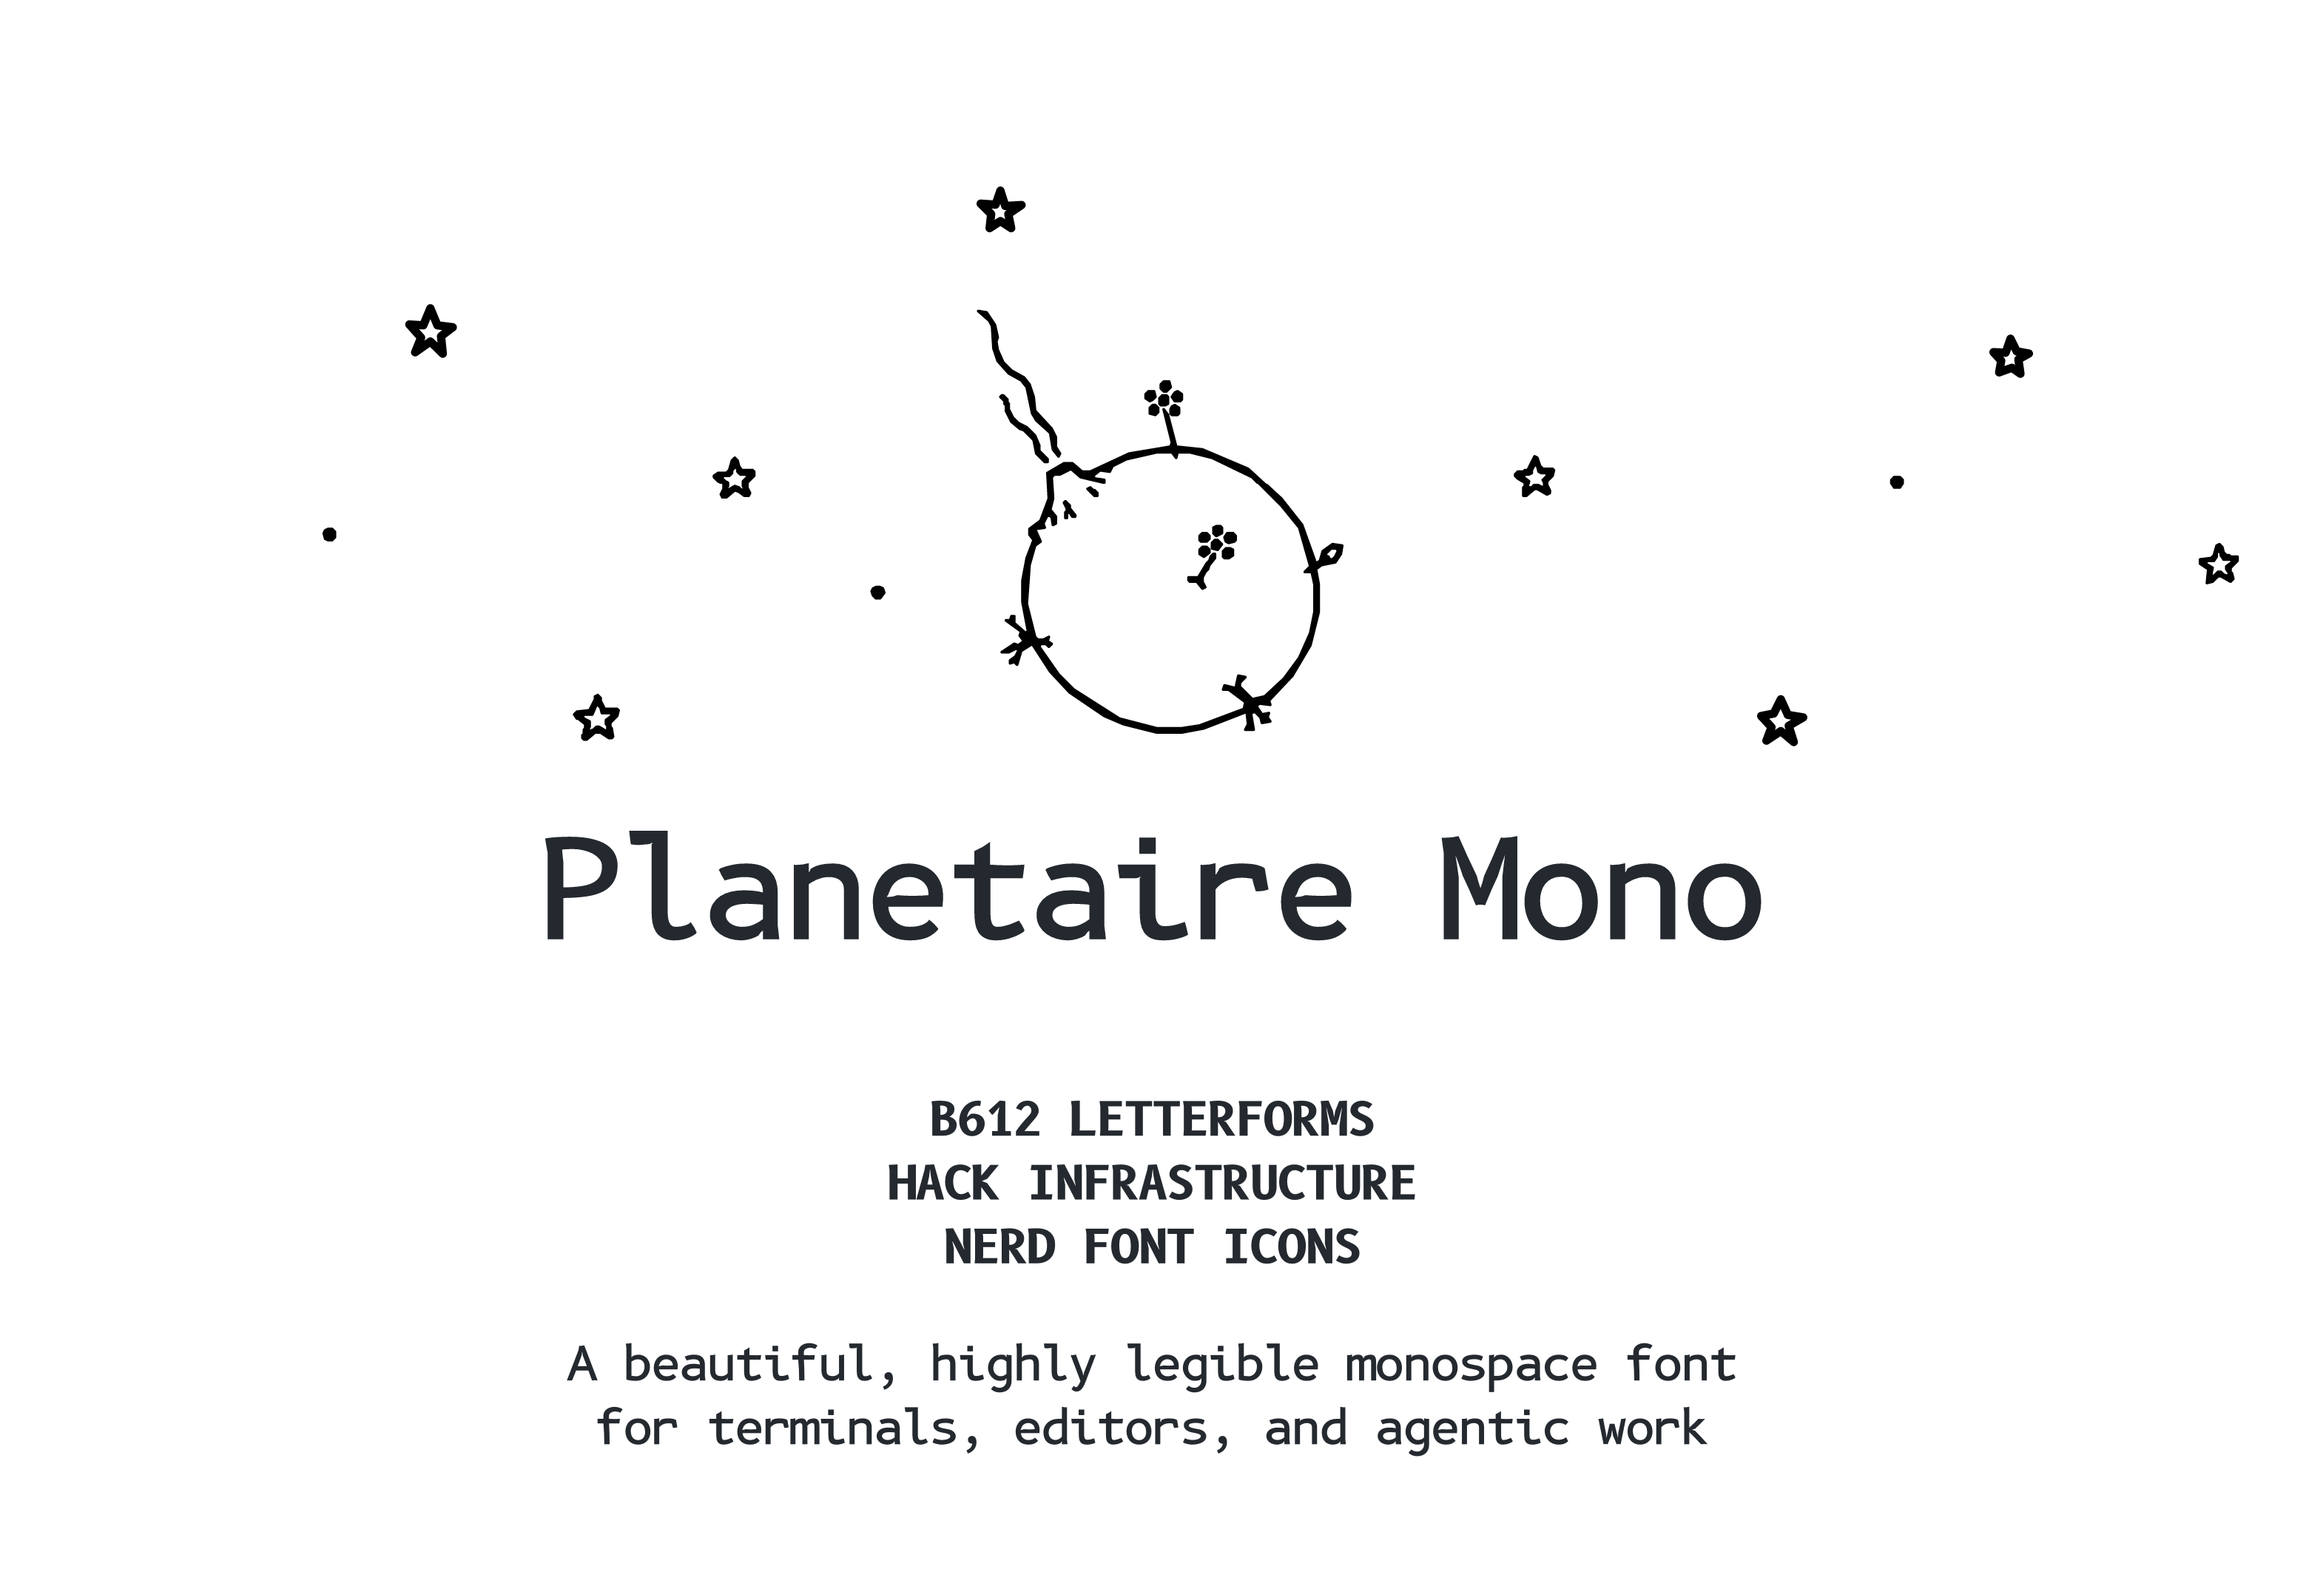
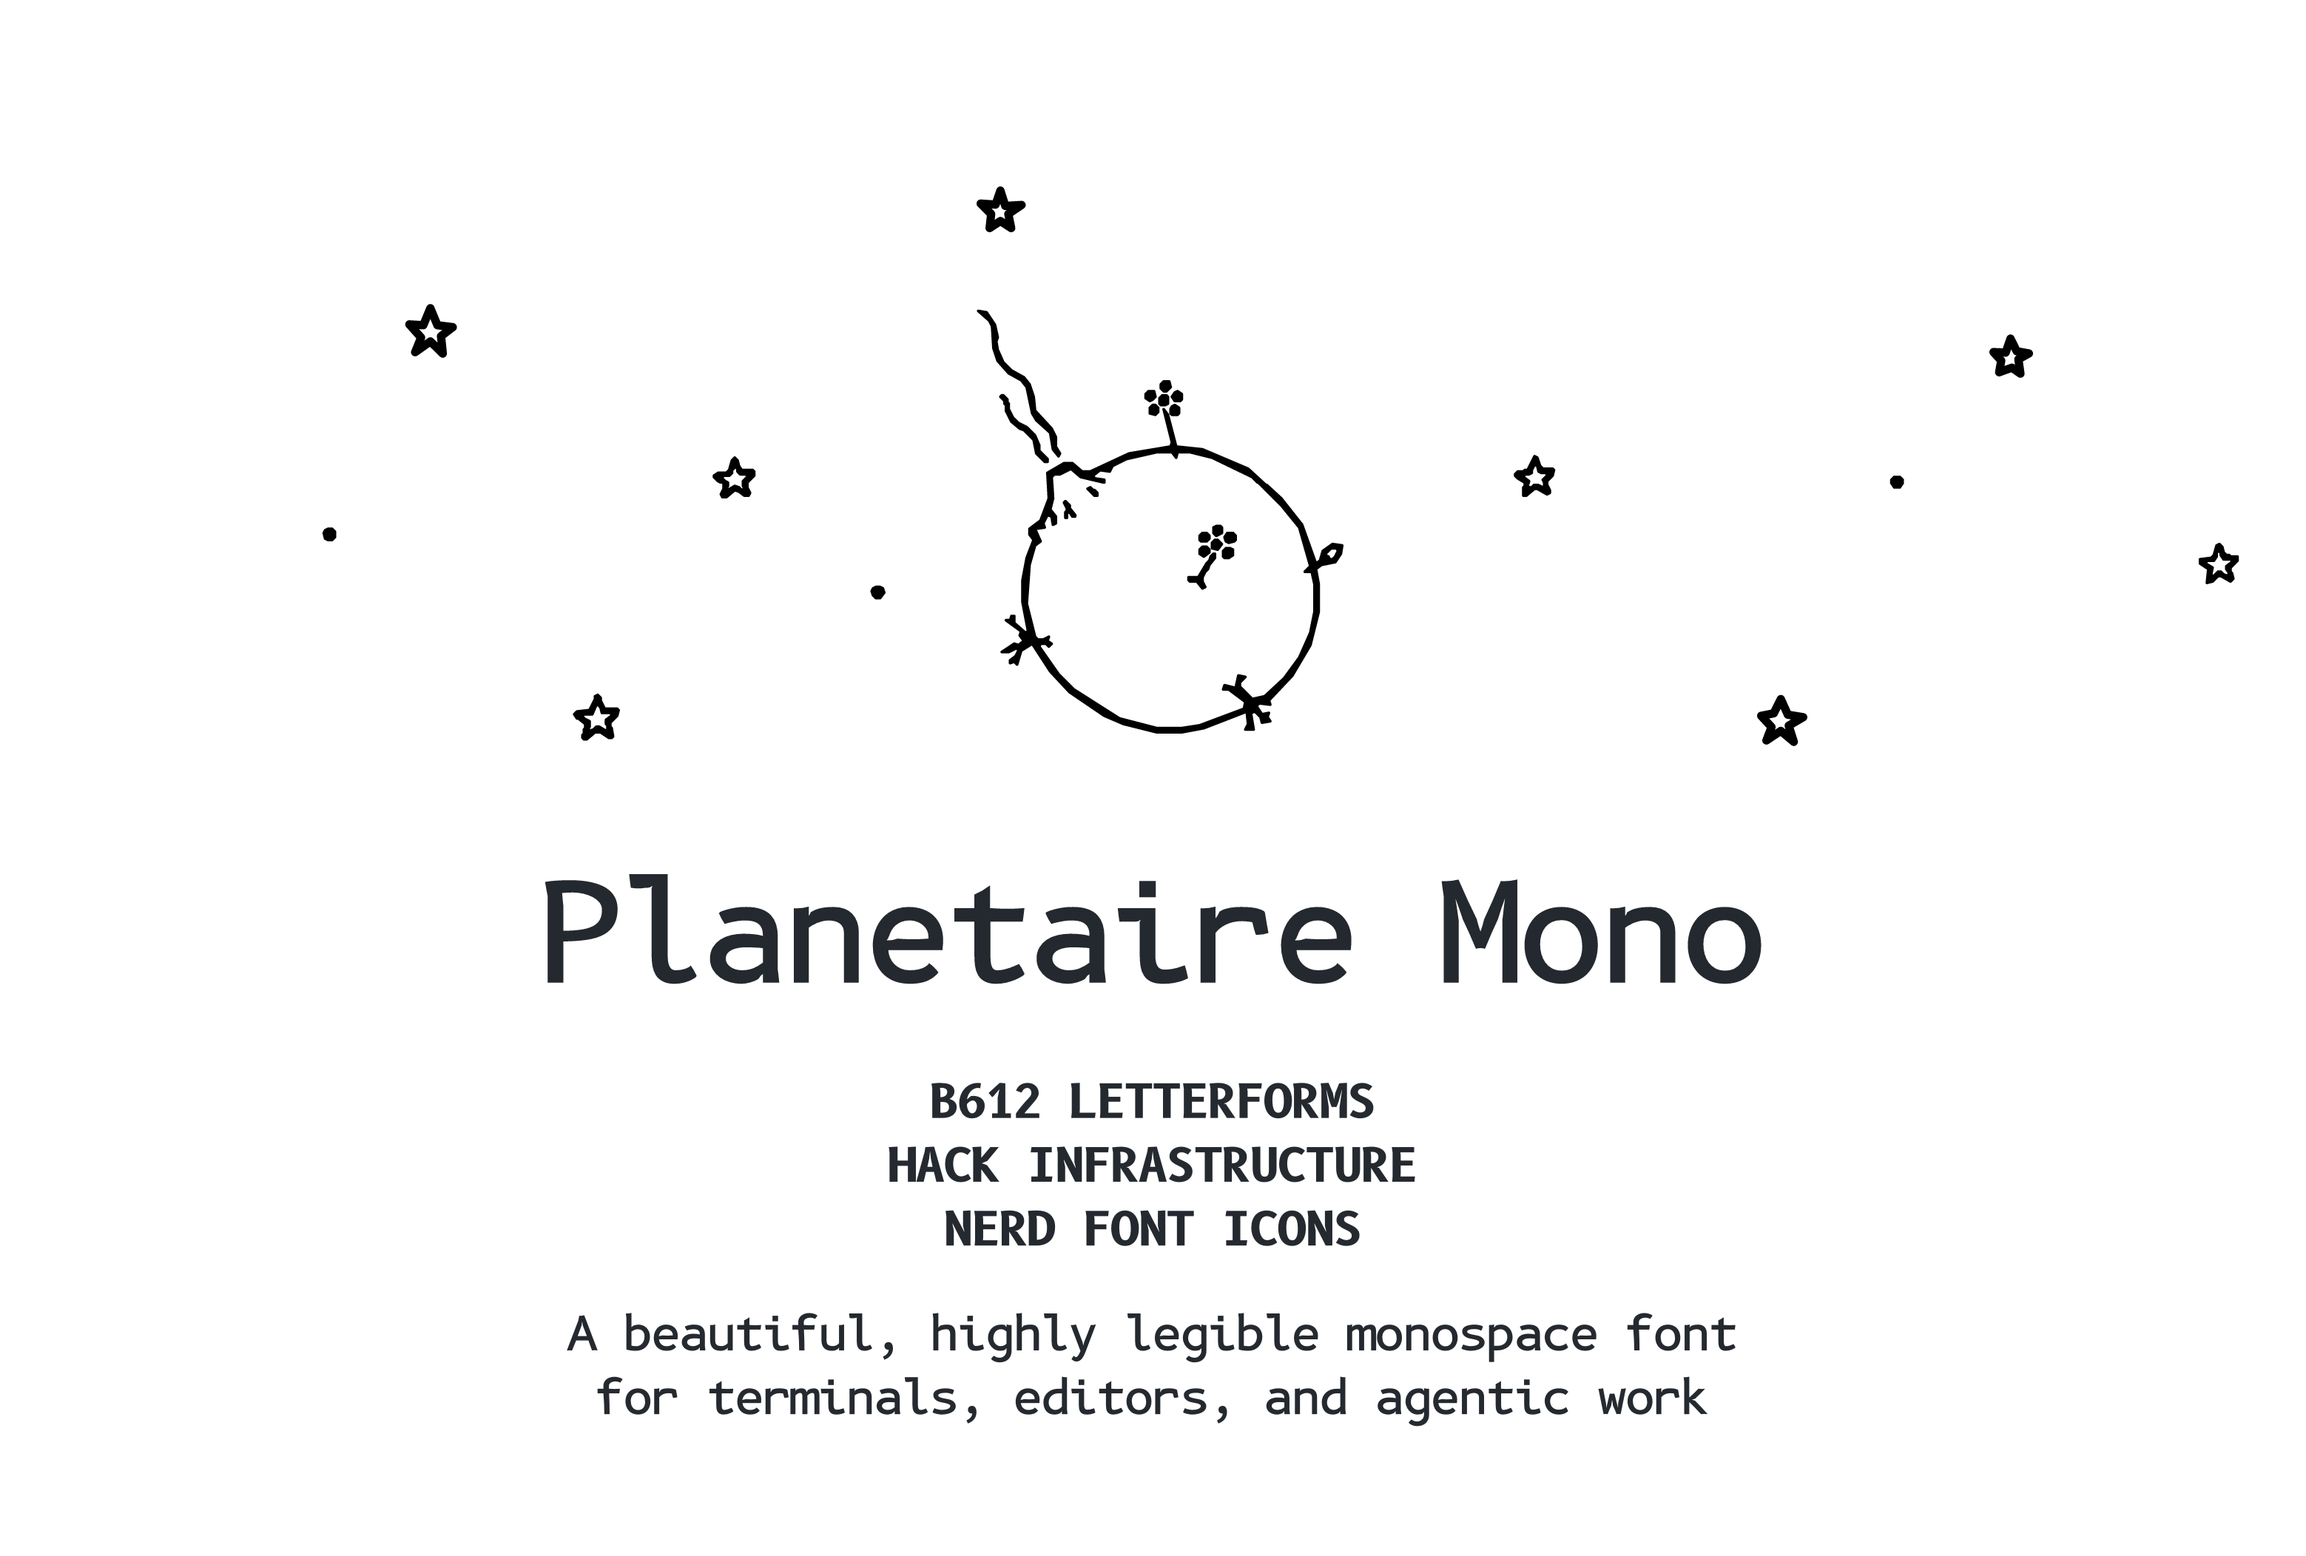
specimen+readme: even title gaps; 'by Antoine de Saint-Exupery' wording
- Title block (cover + README banner, shared header-card): +0.5cm above the title and -0.5cm below it so the title->lineage and lineage->tagline gaps match.
- 'named for the asteroid home of the Little Prince by Antoine de Saint-Exupery, who was himself an aviator' in both the specimen and the README (links unchanged).

diff --git a/README.md b/README.md
@@ -34,8 +34,9 @@ Airbus then commissioned the Montpellier interface studio
 Jonathan Favre-Lamarine) to draw the full family of eight variants.
 
 B612 is named for the asteroid home of the
-[Little Prince](https://en.wikipedia.org/wiki/The_Little_Prince), a nod to
-Saint-Exupéry, [himself an aviator](https://en.wikipedia.org/wiki/Wind,_Sand_and_Stars).
+[Little Prince](https://en.wikipedia.org/wiki/The_Little_Prince) by Antoine de
+Saint-Exupéry, who was
+[himself an aviator](https://en.wikipedia.org/wiki/Wind,_Sand_and_Stars).
 
 B612’s unusual character is a humanist answer to an instrument-panel problem.
 Where earlier cockpit fonts went monolinear and rigid, B612 keeps stroke contrast, opens
@@ -248,8 +249,8 @@ fc-cache -fv
 ### Web (CSS `@font-face`)
 
 Both packages include WOFF2 web fonts and a ready stylesheet in `web/`. The **Text**
-package is recommended for the web (much smaller, no icons); use **Extended** only if you
-need the Nerd Font icons in the browser.
+package is recommended for the web (much smaller, no icons); use **Extended** only if
+you need the Nerd Font icons in the browser.
 From the Text archive’s `web/`:
 
 ```html
